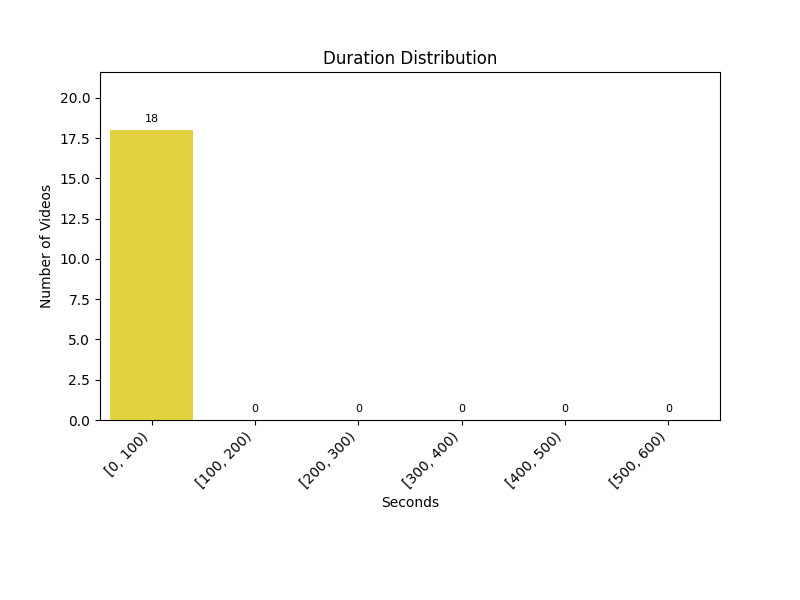
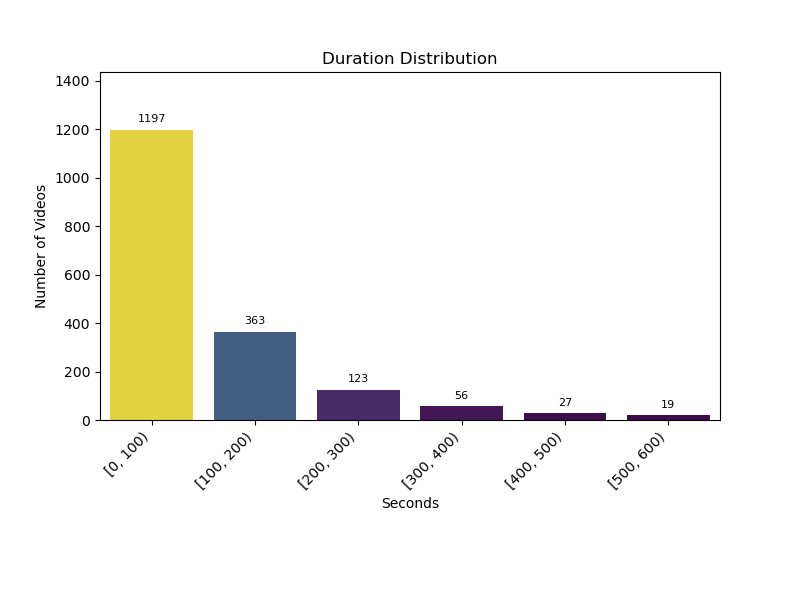
update chart data

diff --git a/AI/src/utils/visualize_dataset.py b/AI/src/utils/visualize_dataset.py
@@ -1,7 +1,6 @@
 import os.path
 from typing import Dict, Any
 from collections import defaultdict
-
 import numpy as np
 import seaborn as sns
 from matplotlib import pyplot as plt
@@ -71,14 +70,22 @@ def plot_dataset_statistics(dataset: VideoFolderDataset, **kwargs) -> None:
     sorted_class_names, sorted_class_counts = zip(*sorted_classes)
 
     # 1. Vẽ biểu đồ số video theo lớp
-    draw_bar_chart(list(sorted_class_names),
-                   list(sorted_class_counts),
-                   "Number of Videos per Class",
-                   "Class", "Number of Videos",
-                   {"rotation": 45, "ha": "right"}, None,
-                   None, {"bottom": 0, "top": max(list(sorted_class_counts)) * 1.2},
-                   **kwargs
-                   )
+    # Lọc bỏ các lớp có chứa "Normal"
+    filtered_classes = [(name, count) for name, count in zip(sorted_class_names, sorted_class_counts) if "Normal" not in name]
+
+    # Tách danh sách sau khi lọc
+    filtered_class_names, filtered_class_counts = zip(*filtered_classes) if filtered_classes else ([], [])
+
+    # Vẽ biểu đồ với dữ liệu đã lọc
+    draw_bar_chart(list(filtered_class_names),
+               list(filtered_class_counts),
+               "Number of Videos per Class",
+               "Class", "Number of Videos",
+               {"rotation": 45, "ha": "right"}, None,
+               None, {"bottom": 0, "top": max(filtered_class_counts) * 1.2} if filtered_class_counts else {"bottom": 0, "top": 1},
+               **kwargs
+               )
+
 
     # 2. So sánh số lượng video bất thường và bình thường
     anomaly_count = sum(count for cls, count in class_counts.items() if cls != "Normal")

diff --git a/AI/src/utils/__init__.py b/AI/src/utils/__init__.py
@@ -5,6 +5,7 @@ from .ModelArchInspector import ModelArchInspector
 
 from .load_video import video_loader
 from .create_feature_extractor import create_feature_extractor
+from .visualize_dataset import prompt_dataset_statistics, plot_dataset_statistics
 
 from .visualize_dataset import (
     prompt_dataset_statistics,
@@ -29,14 +30,12 @@ from .misc import (
     inspect_ffmpeg,
 )
 
-
 __all__ = [
     "DotDict",
     "ANSIColor",
     "ConfigReader",
     "ModelArchInspector",
     "video_loader",
-
     "prompt_dataset_statistics",
     "plot_dataset_statistics",
 

diff --git a/AI/src/data/dataset/__init__.py b/AI/src/data/dataset/__init__.py
@@ -10,3 +10,4 @@ datasets = {
 }
 
 __all__ = ["datasets", "VideoDataset", "VideoFolderDataset"]
+
